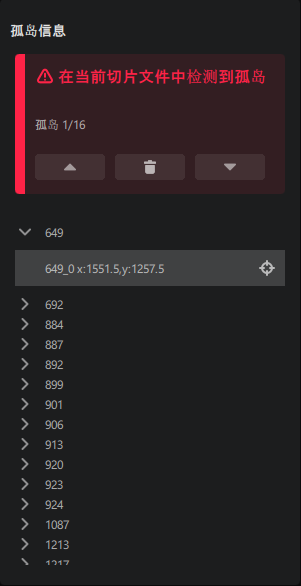
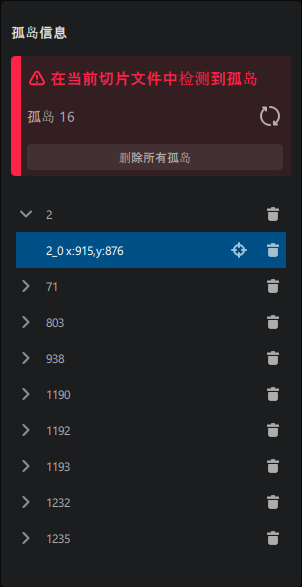
docs: update some pages
1. update function-menu, risk-detection, model-processing, file pages
2. add islandsDetectionPanel to Entry components

diff --git a/src/docComponents/entry/Entry.tsx b/src/docComponents/entry/Entry.tsx
@@ -15,6 +15,7 @@ type EntryType = {
 	supportSettingsPanel?: ReactNode[];
 	manualSupportOptions?: ReactNode[];
 	profileList?: ReactNode[];
+	islandsDetectionPanel?: ReactNode[];
 };
 
 const Td1 = (props: { children: ReactNode }) => {
@@ -40,6 +41,7 @@ export const Entry = (props: EntryType) => {
 		supportSettingsPanel,
 		manualSupportOptions,
 		profileList,
+		islandsDetectionPanel
 	} = props;
 
 	const t = useTranslations("docComponents.entry");
@@ -243,6 +245,34 @@ export const Entry = (props: EntryType) => {
 							<td className="p-2">
 								<div className="flex items-center gap-3">
 									{manualSupportOptions.map((item, index) => {
+										if (index === 0) {
+											return (
+												<div key={index}>{item}</div>
+											);
+										} else {
+											return (
+												<div className="flex items-center gap-3">
+													<div>&gt;</div>
+													<div
+														key={index}
+														className="whitespace-nowrap"
+													>
+														{item}
+													</div>
+												</div>
+											);
+										}
+									})}
+								</div>
+							</td>
+						</tr>
+					)}
+					{islandsDetectionPanel && (
+						<tr>
+							<Td1>{t("islandsDetectionPanel.title")}</Td1>
+							<td className="p-2">
+								<div className="flex items-center gap-3">
+									{islandsDetectionPanel.map((item, index) => {
 										if (index === 0) {
 											return (
 												<div key={index}>{item}</div>

diff --git a/src/components/icons/ChituboxProIcons.tsx b/src/components/icons/ChituboxProIcons.tsx
@@ -3406,3 +3406,31 @@ export const ResetSliderIcon = ({ size, fill }: any) => {
 		</span>
 	);
 };
+
+export const DeleteIslandsIcon = ({ size, fill }: any) => {
+	return (
+		<span className="inline-block align-middle">
+			<svg
+				width="16"
+				height="16"
+				viewBox="0 0 16 16"
+				fill="none"
+				xmlns="http://www.w3.org/2000/svg"
+			>
+				<g clipPath="url(#clip0_7649_12335)">
+					<path
+						fillRule="evenodd"
+						clipRule="evenodd"
+						d="M5 1.25C5 0.559747 5.55975 0 6.25 0H9.75C10.4403 0 11 0.559747 11 1.25V2H15C15.5523 2 16 2.44772 16 3C16 3.55228 15.5523 4 15 4H11H10H6H5H1C0.447715 4 0 3.55228 0 3C0 2.44772 0.447715 2 1 2H5V1.25ZM14 6H2V14C2 15.1039 2.89609 16 4 16H12C13.1039 16 14 15.1039 14 14V6Z"
+						fill="currentColor"
+					/>
+				</g>
+				<defs>
+					<clipPath id="clip0_7649_12335">
+						<rect width="16" height="16" fill="white" />
+					</clipPath>
+				</defs>
+			</svg>
+		</span>
+	);
+};
